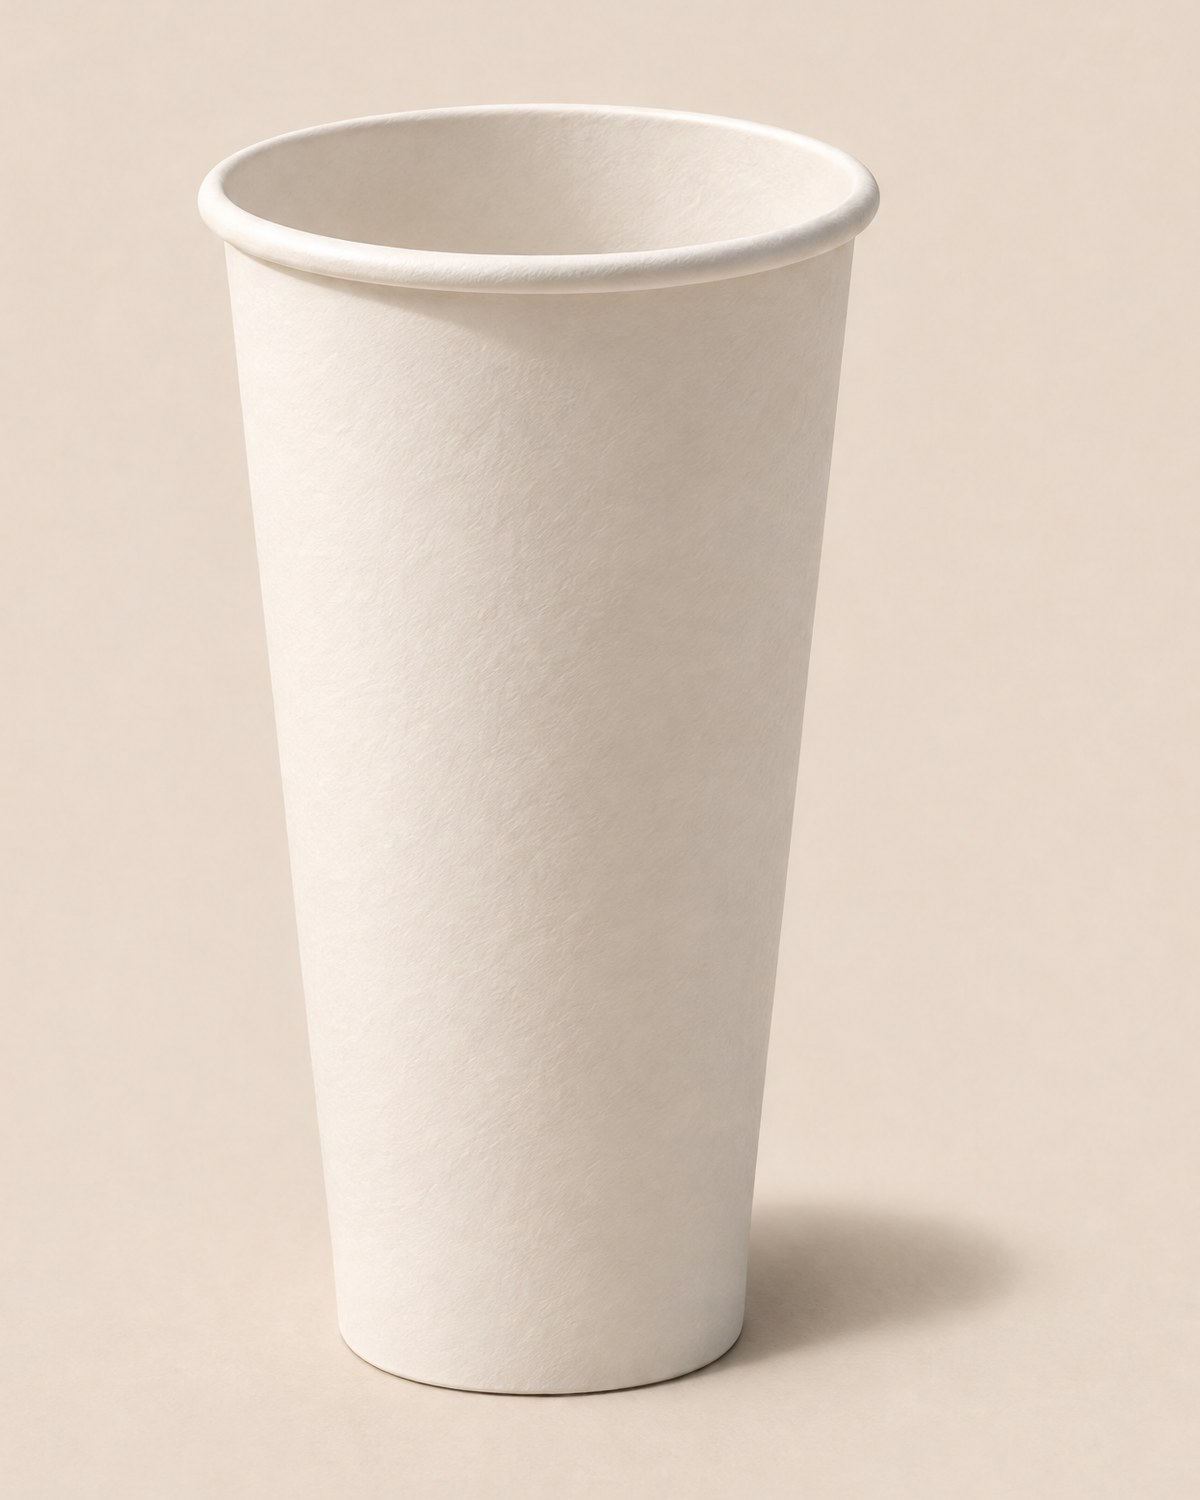
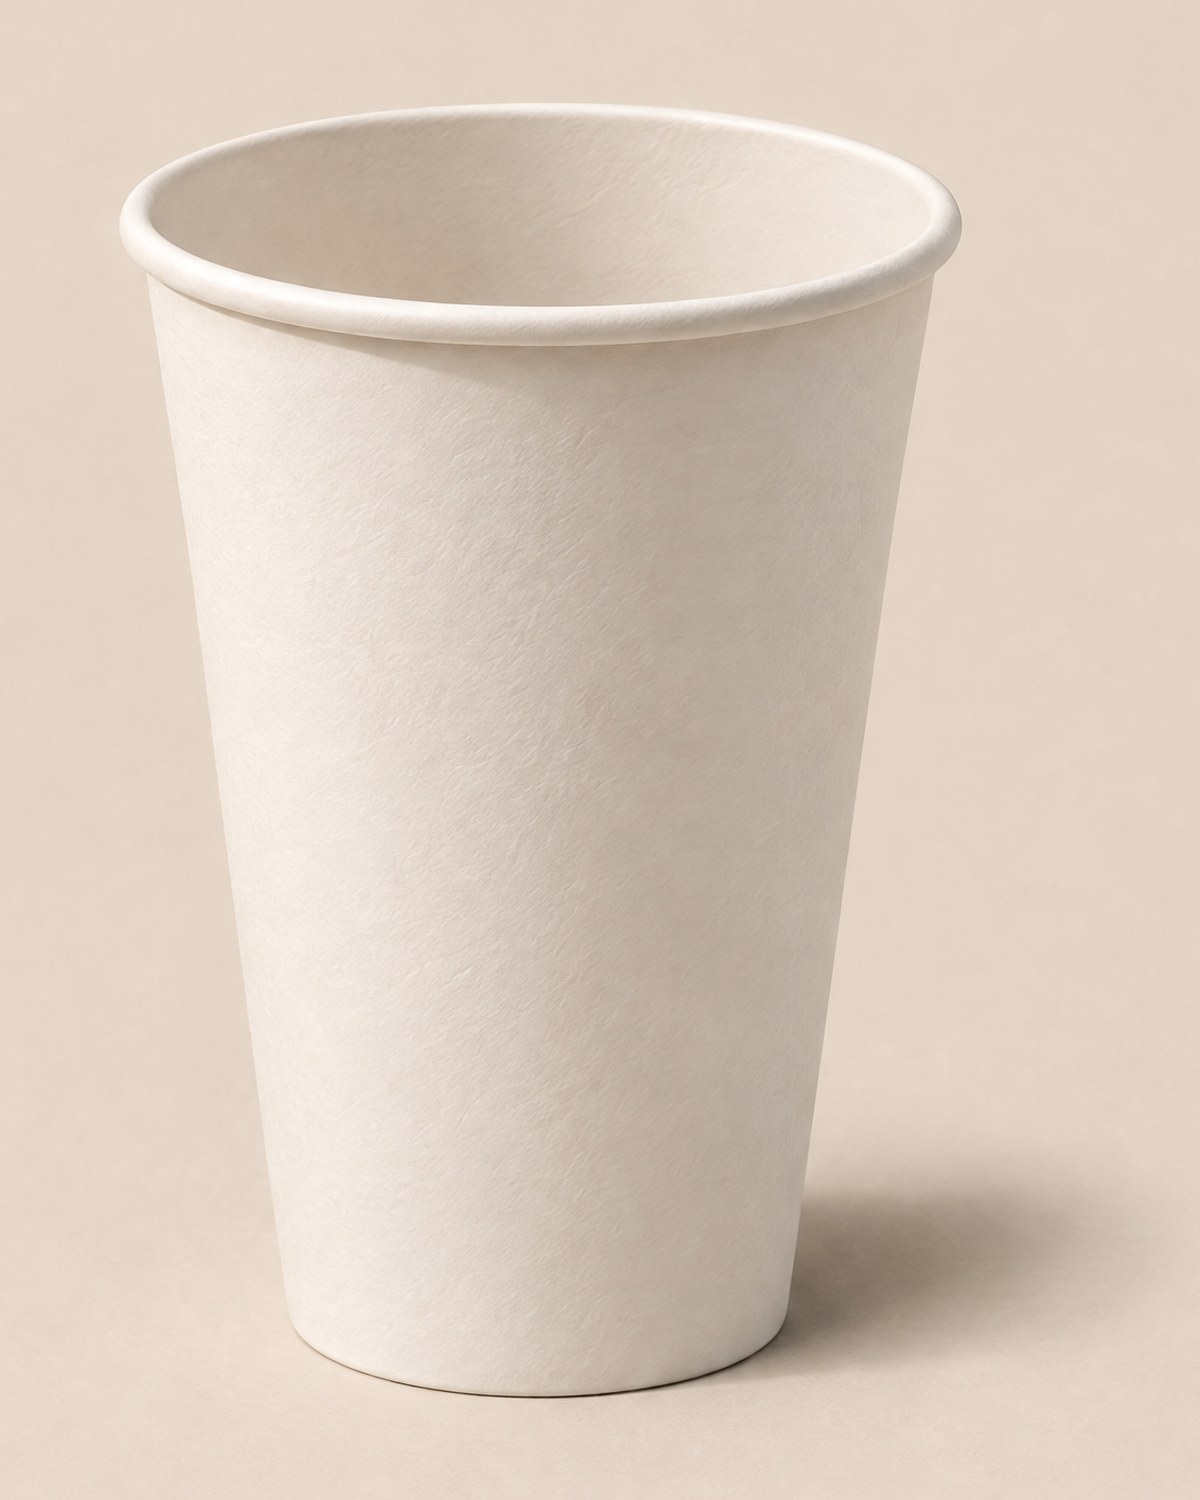
16 oz photos regenerated at real proportions

diff --git a/src/lib/asset-version.ts b/src/lib/asset-version.ts
@@ -3,7 +3,7 @@
  * are replaced: the URLs change, so no browser or CDN keeps serving the old
  * files. next.config.ts allows exactly this query on local images.
  */
-export const ASSET_VERSION = "7";
+export const ASSET_VERSION = "8";
 
 export function v(publicPath: string): string {
   return `${publicPath}?v=${ASSET_VERSION}`;

diff --git a/CLAUDE.md b/CLAUDE.md
@@ -1,6 +1,6 @@
 # Made to Disappear site
 
-- Brand card (branch brand-card, 2026-11-12/13): docs/brand/brand-card-2026-11-12.md records the design card the user supplied in chat (the PDF was not saved) and asked to be applied to the whole site; it supersedes the colour and type guidance in docs/brand-card.md (routes, data model and claims rules there still apply). Palette: bone #EDE8DF page ground, paper #F6F2EB cards/inputs/image wells, ink #111111 text and primary buttons, soil #2A2420 the one dark band per page (the footer), stone #6B675F secondary text, ash #8B877F disabled/coming-soon/borders only, raw bamboo #C4A672 only as a left rule on notes (`.note`). The old token names in globals.css (`--color-forest`, `--color-cream`, `--color-mint`, `--color-sage`, `--color-clay`…) are kept so every utility still works, each remapped to a card colour; a "Brand card layer" at the end of globals.css overrides components: square corners everywhere except `.btn`/`.chip` (a `[class*="rounded-["]` override), no shadows/gradients/glass/mesh/grain, `.card` paper with a hairline and colour-only hover, outlined chips in lowercase, ink primary button + outlined others (one primary per screen; the header button is outlined), `.btn` and nav lowercase via text-transform, headings always ink, `.price-table`/`.spec-table` hairline rows with an ink rule under the header row, `.max-w-7xl` capped at 1120 px with 28 px gutters, Reveal fades only (200 ms), Marquee static. Type: Helvetica Neue / Arial system stack via `--font-display/--font-serif/--font-sans` (no Google fonts; JetBrains Mono stays for SKUs); .t-hero 72/1/700/-0.04em, .t-section 40, .t-page/.t-heading 26, .t-card 19, .t-lead 20/500, .t-label 11.5 caps stone. Headings are lowercase with a period in the copy itself (acronyms stay); PageHeader titles and most h2s were lowercased on 2026-11-13. Home page: hero (product on bone, headline "serve it. then let it go.", one primary + a text link, a hairline fact list), then numbered sections 01 the range (hairline product grid), 02 paper outside. PHA inside. (soil photo + hairline spec list), 03 after the coffee. (breakdown strip + three hairline columns), 04 what it costs. (CostCalculator, hairline receipt), 05 the Inner Harbour (desaturated photo + hairline stats), 06 asked often.; the footer is the only soil band and carries "keep it. then let it go." Photography (2026-11-13, GPT Image 2.6 via Higgsfield from the renders and the badge, masters in docs/brand/generated/60–65): public/hero-bone.jpg (16:9), `[sku]-front.jpg` the 4:5 pair with the base mark, `[sku]-3q.jpg` single standing cups cropped from one three-cup frame, lid front/3q; all on bone #EDE8DF with one hard light and a real shadow. ProductImage frames are 4:5 object-cover. public/icon.png and apple-icon.png are the card's favicon: an ink dot on bone, low and right.  Interaction layer (2026-11-13, after the user said the photos were off-centre and the site had no features): the product photography was regenerated on 2026-11-13 with the subject dead centre and a short soft shadow (GPT Image 2.6, masters docs/brand/generated/80–87: hero lineup, three front pairs, lid pair, three standing cups; visual mass measured within 5% of centre with the scratchpad measure.py), the lid photos are lid-only (a single lid front, a stack of three for the hover shot, two lids for card-lids.jpg; masters 89–91) because a cup wearing the lid read as another cup SKU (user, 2026-11-13), then the product tiles and gallery cut tight so the cups fill the 4:5 frame and bleed top and bottom (user, 2026-11-13: "like this… not in the middle", shown on the range tiles only); the hero keeps the full centred lineup with its margins; re-cropping the first set never looked right because the long hard shadows ran to one edge. Every photo URL carries ?v=ASSET_VERSION from src/lib/asset-version.ts (next.config.ts images.localPatterns allows exactly that query): bump the constant whenever a photo file is replaced, or browsers keep the old file for hours. soil-mark.jpg is a Higgsfield outpaint of the original (master 72), and public/breakdown/1–4.jpg are 4:5 cuts of the 4k-upscaled strip (master 73). The header is transparent until the page scrolls (ScrollState sets data-scrolled; the brand layer then paints it bone with a hairline). Home page (rebuilt again 2026-11-13 after the user asked for "a mix between Bloom Energy and nothing.eco" in the card's colours; the numbered-section layout was rejected because its 160 px number column pushed every section right of centre): full-bleed photo hero (`.bleed`; public/hero-wide.jpg is a 2:1 outpaint of the centred lineup with the cups weighted to the right, master 88, so the headline sits over empty bone at the left; on phones the photo stacks above the text), a four-cell trust strip on hairlines (CBC, TÜV Austria, lining, ships from), two square feature cards with the photo as the card and text over the empty bone (card-cups.jpg / card-lids.jpg), a split statement band (the one soil panel `bg-soil-band` left, soil-mark.jpg right), "after the coffee." with the scrubber, a Bloom-style stat band (sentence + three counting percentages in hairline cells), "the range." tiles with a from-price and an outlined order button, the calculator, a full-width hairline FAQ; every section heading is a SectionHead (heading left, one outlined action right) and spans the full 1120 px. The footer ends with the wordmark set across the full width at 18% (`.footer-mark`). Catalogue (/products and category pages, 2026-11-13): CatalogGrid is a toolbar (category pills, count, search at right; filters still in the URL) over a two-across grid of stacked ProductCards (4:5 HoverSwap photo, category label + SKU, name, tagline from `taglines` in src/lib/copy.ts, one meta line of capacity · material · rim, cert link, Price, stock line, compact AddToCart); the products page adds a "compare the sizes." spec table built from the cups' specs and two notes (sample pack, quick order). The `motion` library is no longer imported by CatalogGrid. SectionRail/CountUp/BreakdownScrubber/HoverSwap remain as components (SectionRail is no longer rendered). Motion layer (end of globals.css, all inside prefers-reduced-motion: no-preference): `.hero-in` children rise in with a stagger and `.hero-photo` settles from a 1.04 scale on load (CSS only, no JS on the critical path); Reveal/RevealGroup now fade and rise 14 px over 700 ms with the stagger step; `.drift` gives the soil photo an 18 s alternate zoom; `.zoom-on-hover` and HoverSwap scale the photo 1.035 on hover; buttons lift 1 px on hover and press to 0.98; details answers rise in; smooth scrolling. HoverSwap fades product tiles and cards to the standing `-3q` shot on hover (Product.hover from withAssets), BreakdownScrubber is the four-frame well you drag across or pick a stage from (it steps through once on arrival, then only moves when moved), CountUp counts the survey percentages in. All fades, nothing slides. Harnesses: scratchpad hovershot.mjs (hover + screenshot) and scrollshot.mjs. The older passes live on branches calmer-register and draft-blend; the user's standing rules from them still hold (no "per SKU", flat 16/17/18¢ pricing, Learn library, cost calculator as a sentence + receipt).
+- Brand card (branch brand-card, 2026-11-12/13): docs/brand/brand-card-2026-11-12.md records the design card the user supplied in chat (the PDF was not saved) and asked to be applied to the whole site; it supersedes the colour and type guidance in docs/brand-card.md (routes, data model and claims rules there still apply). Palette: bone #EDE8DF page ground, paper #F6F2EB cards/inputs/image wells, ink #111111 text and primary buttons, soil #2A2420 the one dark band per page (the footer), stone #6B675F secondary text, ash #8B877F disabled/coming-soon/borders only, raw bamboo #C4A672 only as a left rule on notes (`.note`). The old token names in globals.css (`--color-forest`, `--color-cream`, `--color-mint`, `--color-sage`, `--color-clay`…) are kept so every utility still works, each remapped to a card colour; a "Brand card layer" at the end of globals.css overrides components: square corners everywhere except `.btn`/`.chip` (a `[class*="rounded-["]` override), no shadows/gradients/glass/mesh/grain, `.card` paper with a hairline and colour-only hover, outlined chips in lowercase, ink primary button + outlined others (one primary per screen; the header button is outlined), `.btn` and nav lowercase via text-transform, headings always ink, `.price-table`/`.spec-table` hairline rows with an ink rule under the header row, `.max-w-7xl` capped at 1120 px with 28 px gutters, Reveal fades only (200 ms), Marquee static. Type: Helvetica Neue / Arial system stack via `--font-display/--font-serif/--font-sans` (no Google fonts; JetBrains Mono stays for SKUs); .t-hero 72/1/700/-0.04em, .t-section 40, .t-page/.t-heading 26, .t-card 19, .t-lead 20/500, .t-label 11.5 caps stone. Headings are lowercase with a period in the copy itself (acronyms stay); PageHeader titles and most h2s were lowercased on 2026-11-13. Home page: hero (product on bone, headline "serve it. then let it go.", one primary + a text link, a hairline fact list), then numbered sections 01 the range (hairline product grid), 02 paper outside. PHA inside. (soil photo + hairline spec list), 03 after the coffee. (breakdown strip + three hairline columns), 04 what it costs. (CostCalculator, hairline receipt), 05 the Inner Harbour (desaturated photo + hairline stats), 06 asked often.; the footer is the only soil band and carries "keep it. then let it go." Photography (2026-11-13, GPT Image 2.6 via Higgsfield from the renders and the badge, masters in docs/brand/generated/60–65): public/hero-bone.jpg (16:9), `[sku]-front.jpg` the 4:5 pair with the base mark, `[sku]-3q.jpg` single standing cups cropped from one three-cup frame, lid front/3q; all on bone #EDE8DF with one hard light and a real shadow. ProductImage frames are 4:5 object-cover. public/icon.png and apple-icon.png are the card's favicon: an ink dot on bone, low and right.  Interaction layer (2026-11-13, after the user said the photos were off-centre and the site had no features): the product photography was regenerated on 2026-11-13 with the subject dead centre and a short soft shadow (GPT Image 2.6, masters docs/brand/generated/80–87: hero lineup, three front pairs, lid pair, three standing cups; visual mass measured within 5% of centre with the scratchpad measure.py), the 16 oz pair and standing shot were regenerated at real proportions (13.5 cm tall on a 90 mm rim, masters 92–93) after the first read as a giant tumbler (user, 2026-11-13); the lid photos are lid-only (a single lid front, a stack of three for the hover shot, two lids for card-lids.jpg; masters 89–91) because a cup wearing the lid read as another cup SKU (user, 2026-11-13), then the product tiles and gallery cut tight so the cups fill the 4:5 frame and bleed top and bottom (user, 2026-11-13: "like this… not in the middle", shown on the range tiles only); the hero keeps the full centred lineup with its margins; re-cropping the first set never looked right because the long hard shadows ran to one edge. Every photo URL carries ?v=ASSET_VERSION from src/lib/asset-version.ts (next.config.ts images.localPatterns allows exactly that query): bump the constant whenever a photo file is replaced, or browsers keep the old file for hours. soil-mark.jpg is a Higgsfield outpaint of the original (master 72), and public/breakdown/1–4.jpg are 4:5 cuts of the 4k-upscaled strip (master 73). The header is transparent until the page scrolls (ScrollState sets data-scrolled; the brand layer then paints it bone with a hairline). Home page (rebuilt again 2026-11-13 after the user asked for "a mix between Bloom Energy and nothing.eco" in the card's colours; the numbered-section layout was rejected because its 160 px number column pushed every section right of centre): full-bleed photo hero (`.bleed`; public/hero-wide.jpg is a 2:1 outpaint of the centred lineup with the cups weighted to the right, master 88, so the headline sits over empty bone at the left; on phones the photo stacks above the text), a four-cell trust strip on hairlines (CBC, TÜV Austria, lining, ships from), two square feature cards with the photo as the card and text over the empty bone (card-cups.jpg / card-lids.jpg), a split statement band (the one soil panel `bg-soil-band` left, soil-mark.jpg right), "after the coffee." with the scrubber, a Bloom-style stat band (sentence + three counting percentages in hairline cells), "the range." tiles with a from-price and an outlined order button, the calculator, a full-width hairline FAQ; every section heading is a SectionHead (heading left, one outlined action right) and spans the full 1120 px. The footer ends with the wordmark set across the full width at 18% (`.footer-mark`). Catalogue (/products and category pages, 2026-11-13): CatalogGrid is a toolbar (category pills, count, search at right; filters still in the URL) over a two-across grid of stacked ProductCards (4:5 HoverSwap photo, category label + SKU, name, tagline from `taglines` in src/lib/copy.ts, one meta line of capacity · material · rim, cert link, Price, stock line, compact AddToCart); the products page adds a "compare the sizes." spec table built from the cups' specs and two notes (sample pack, quick order). The `motion` library is no longer imported by CatalogGrid. SectionRail/CountUp/BreakdownScrubber/HoverSwap remain as components (SectionRail is no longer rendered). Motion layer (end of globals.css, all inside prefers-reduced-motion: no-preference): `.hero-in` children rise in with a stagger and `.hero-photo` settles from a 1.04 scale on load (CSS only, no JS on the critical path); Reveal/RevealGroup now fade and rise 14 px over 700 ms with the stagger step; `.drift` gives the soil photo an 18 s alternate zoom; `.zoom-on-hover` and HoverSwap scale the photo 1.035 on hover; buttons lift 1 px on hover and press to 0.98; details answers rise in; smooth scrolling. HoverSwap fades product tiles and cards to the standing `-3q` shot on hover (Product.hover from withAssets), BreakdownScrubber is the four-frame well you drag across or pick a stage from (it steps through once on arrival, then only moves when moved), CountUp counts the survey percentages in. All fades, nothing slides. Harnesses: scratchpad hovershot.mjs (hover + screenshot) and scrollshot.mjs. The older passes live on branches calmer-register and draft-blend; the user's standing rules from them still hold (no "per SKU", flat 16/17/18¢ pricing, Learn library, cost calculator as a sentence + receipt).
 - Do not mention shipping speed (no same-day, cutoffs or dispatch times) and never present the round wordmark badge as a certification mark: it is our logo, not TÜV Austria's.
 - The site never shows its own to-do list: no "pending", "TODO" or placeholder values in copy, chips, tables or the PDF. Missing data (certificate numbers, phone) is omitted, not labelled. Ask the user for it in chat instead.
 - Never use the words biodegradable, marine, ocean, landfill, municipal, green bin, eco or planet-friendly in site copy. `npm run lint:copy` enforces this and runs before every build.
